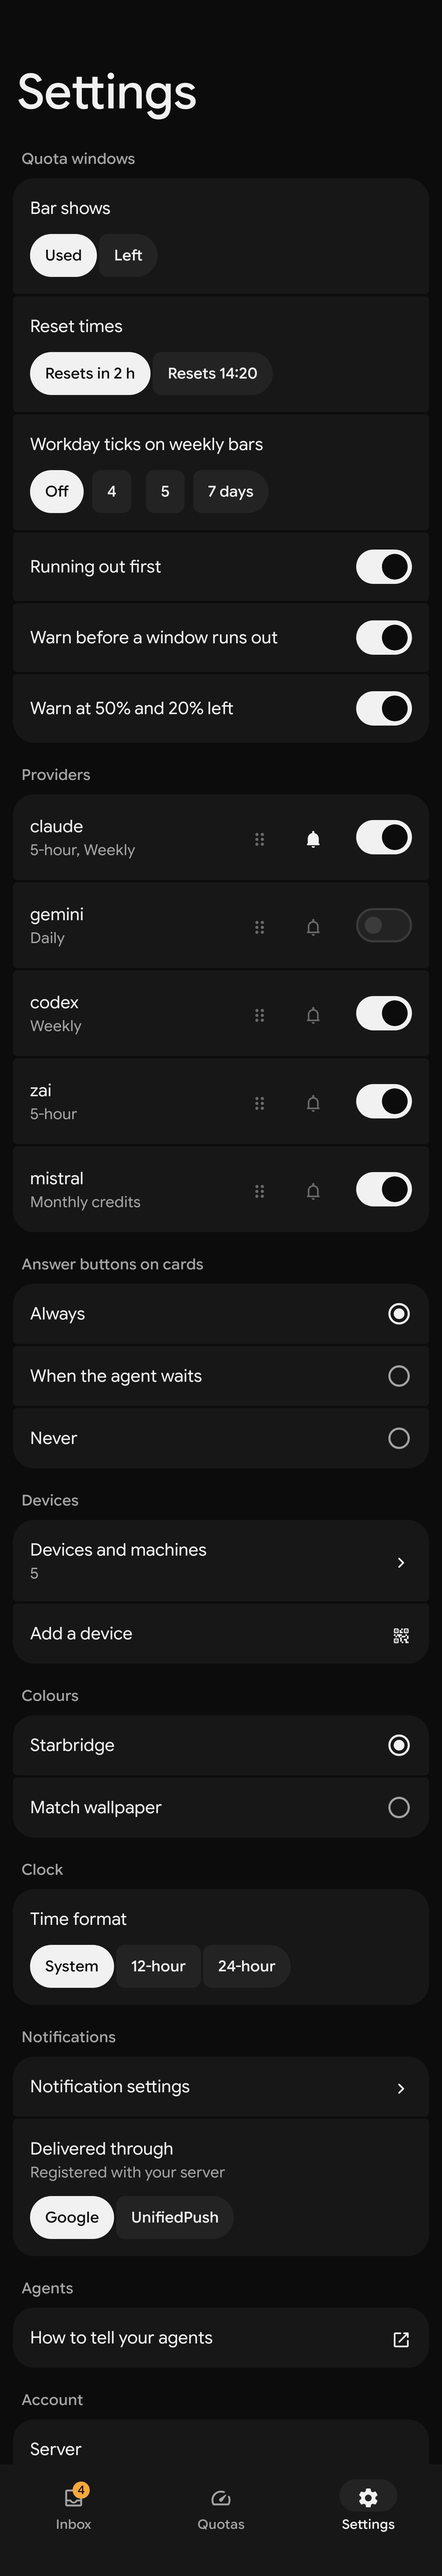
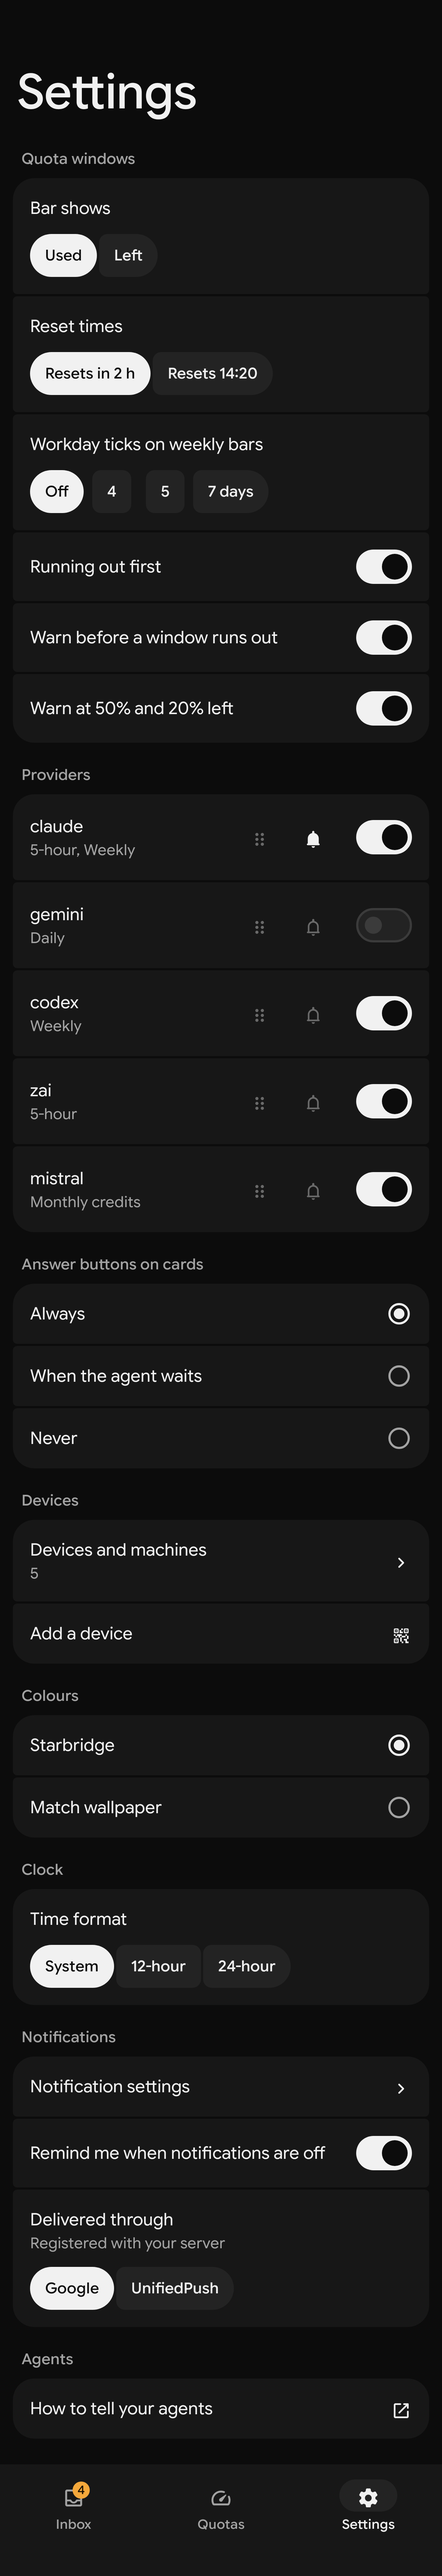
Android says when notifications are off (#342)
A quiet line heads the Inbox with Turn on and a dismiss button; Settings'
Notifications row says notifications are off, and a Remind me switch brings
the dismissed line back. The state is read again on each resume.

Closes #342

diff --git a/android/app/src/main/kotlin/dev/starbridge/app/data/Prefs.kt b/android/app/src/main/kotlin/dev/starbridge/app/data/Prefs.kt
@@ -13,9 +13,15 @@ enum class Colours { Starbridge, Wallpaper }
 
 /**
  * How the inbox shows, remembered on this phone: one feed, grouped by machine or by waiting,
- * History open or closed, and when question cards carry their answer buttons (#138).
+ * History open or closed, when question cards carry their answer buttons (#138), and whether it
+ * says so while notifications are off (#342).
  */
-data class InboxView(val grouping: Grouping = Grouping.None, val historyOpen: Boolean = false, val buttons: CardButtons = CardButtons.Always)
+data class InboxView(
+    val grouping: Grouping = Grouping.None,
+    val historyOpen: Boolean = false,
+    val buttons: CardButtons = CardButtons.Always,
+    val remindOff: Boolean = true,
+)
 
 /** The inbox's groups: none, one per machine, or what blocks an agent above what can wait (#191). */
 enum class Grouping { None, Machine, Waiting }
@@ -66,12 +72,13 @@ class Prefs @Inject constructor(@ApplicationContext context: Context) {
                 ?: if (prefs.getBoolean(BY_MACHINE, false)) Grouping.Machine else Grouping.None,
             prefs.getBoolean(HISTORY_OPEN, false),
             CardButtons.entries.find { it.name == prefs.getString(BUTTONS, null) } ?: CardButtons.Always,
+            prefs.getBoolean(REMIND_OFF, true),
         ),
     )
     val inbox: StateFlow<InboxView> = _inbox
 
     fun setInbox(value: InboxView) {
-        prefs.edit().putString(GROUPING, value.grouping.name).remove(BY_MACHINE).putBoolean(HISTORY_OPEN, value.historyOpen).putString(BUTTONS, value.buttons.name).apply()
+        prefs.edit().putString(GROUPING, value.grouping.name).remove(BY_MACHINE).putBoolean(HISTORY_OPEN, value.historyOpen).putString(BUTTONS, value.buttons.name).putBoolean(REMIND_OFF, value.remindOff).apply()
         _inbox.value = value
     }
 
@@ -93,6 +100,7 @@ class Prefs @Inject constructor(@ApplicationContext context: Context) {
         const val GROUPING = "inbox-grouping"
         const val HISTORY_OPEN = "inbox-history-open"
         const val BUTTONS = "inbox-card-buttons"
+        const val REMIND_OFF = "inbox-remind-notifications-off"
         val json = Json { ignoreUnknownKeys = true; encodeDefaults = false }
     }
 }

diff --git a/android/app/src/main/kotlin/dev/starbridge/app/ui/inbox/InboxScreen.kt b/android/app/src/main/kotlin/dev/starbridge/app/ui/inbox/InboxScreen.kt
@@ -94,6 +94,7 @@ import dev.starbridge.app.ui.Lockup
 import dev.starbridge.app.ui.Page
 import dev.starbridge.app.ui.Refresh
 import dev.starbridge.app.ui.Sym
+import dev.starbridge.app.ui.openNotificationSettings
 import dev.starbridge.app.ui.Symbol
 import dev.starbridge.app.ui.fieldColors
 import dev.starbridge.app.ui.groupGap
@@ -186,6 +187,7 @@ fun InboxScreen(
     view: InboxView = InboxView(),
     onView: (InboxView) -> Unit = {},
     onFind: () -> Unit = {},
+    notificationsOff: Boolean = false,
 ) {
     // While a prompt is on screen, read prompts every 1.5 s, so one settled elsewhere leaves
     // at once; the clock ticks with it for the 3 s a closed prompt stays.
@@ -224,6 +226,7 @@ fun InboxScreen(
         gap = groupGap,
         margin = Spacing.s4,
     ) {
+        if (notificationsOff && view.remindOff) item(key = "notifications-off") { NotificationsOff { onView(view.copy(remindOff = false)) } }
         if (feed.isEmpty()) {
             item(key = "empty") { Empty() }
         } else {
@@ -255,6 +258,22 @@ fun InboxScreen(
 }
 
 private const val PROMPT_POLL_MS = 1_500L
+
+/**
+ * Notifications are off (#342): a quiet line, since the owner may want them off. "Turn on" opens
+ * Android's settings; the ✕ hides the line for good, until Settings' "Remind me" brings it back.
+ */
+@Composable
+private fun NotificationsOff(dismiss: () -> Unit) {
+    val context = LocalContext.current
+    val dim = MaterialTheme.colorScheme.onSurfaceVariant
+    Row(Modifier.fillMaxWidth().padding(start = Spacing.s1), verticalAlignment = Alignment.CenterVertically, horizontalArrangement = Arrangement.spacedBy(Spacing.s2)) {
+        Symbol(Sym.BellOff, size = 18.dp, tint = dim)
+        Text("Notifications are off", style = StarbridgeTheme.type.small, color = dim, modifier = Modifier.weight(1f))
+        TextButton(onClick = { openNotificationSettings(context) }) { Text("Turn on") }
+        IconButton(onClick = dismiss) { Symbol(Sym.Close, size = 18.dp, tint = dim, contentDescription = "Don't remind me") }
+    }
+}
 
 /**
  * The inbox's cards (#248), Material 3's filled card with extra-large corners. In One feed each

diff --git a/android/app/src/main/kotlin/dev/starbridge/app/ui/settings/SettingsScreen.kt b/android/app/src/main/kotlin/dev/starbridge/app/ui/settings/SettingsScreen.kt
@@ -1,7 +1,5 @@
 package dev.starbridge.app.ui.settings
 
-import android.content.Intent
-import android.provider.Settings
 import androidx.compose.foundation.clickable
 import androidx.compose.foundation.gestures.detectDragGesturesAfterLongPress
 import androidx.compose.foundation.layout.Arrangement
@@ -68,6 +66,7 @@ import dev.starbridge.app.data.Store
 import dev.starbridge.app.ui.Page
 import dev.starbridge.app.ui.Section
 import dev.starbridge.app.ui.Sym
+import dev.starbridge.app.ui.openNotificationSettings
 import dev.starbridge.app.ui.Symbol
 import dev.starbridge.app.ui.devices.Confirm
 import dev.starbridge.app.ui.rowShape
@@ -118,6 +117,7 @@ fun SettingsScreen(
     modifier: Modifier = Modifier,
     inbox: InboxView = InboxView(),
     clock: Clock = Clock.System,
+    notificationsOff: Boolean = false,
 ) {
     val context = LocalContext.current
     var signingOut by rememberSaveable { mutableStateOf(false) }
@@ -187,14 +187,16 @@ fun SettingsScreen(
 
         item { Section("Notifications") }
         item {
-            LinkRow(0, 2, "Notification settings", null, Sym.Chevron) {
-                runCatching {
-                    context.startActivity(Intent(Settings.ACTION_APP_NOTIFICATION_SETTINGS).putExtra(Settings.EXTRA_APP_PACKAGE, context.packageName))
-                }
-            }
+            LinkRow(
+                0, 3,
+                if (notificationsOff) "Notifications are off" else "Notification settings",
+                if (notificationsOff) "Questions arrive silently. Turn them on in Android's settings." else null,
+                Sym.Chevron,
+            ) { openNotificationSettings(context) }
         }
+        item { SwitchRow(1, 3, "Remind me when notifications are off", inbox.remindOff) { actions.inbox(inbox.copy(remindOff = it)) } }
         item {
-            ChoiceRow(1, 2, "Delivered through", push(push)) {
+            ChoiceRow(2, 3, "Delivered through", push(push)) {
                 Segments(listOf("fcm" to "Google", "unifiedpush" to "UnifiedPush"), push.type, actions.push)
             }
         }

diff --git a/android/app/src/test/kotlin/dev/starbridge/app/ScreenshotTest.kt b/android/app/src/test/kotlin/dev/starbridge/app/ScreenshotTest.kt
@@ -10,6 +10,9 @@ import androidx.compose.ui.Modifier
 import androidx.compose.ui.platform.LocalDensity
 import androidx.compose.ui.test.junit4.v2.createComposeRule
 import androidx.compose.ui.test.onRoot
+import androidx.compose.ui.test.hasScrollToNodeAction
+import androidx.compose.ui.test.hasText
+import androidx.compose.ui.test.performScrollToNode
 import androidx.compose.ui.unit.Density
 import com.github.takahirom.roborazzi.captureRoboImage
 import dev.starbridge.app.data.Approval
@@ -207,6 +210,19 @@ class ScreenshotTest(private val dark: Boolean) {
             SettingsScreen(fake.windows, QuotaSettings(hidden = listOf("gemini"), notify = listOf("claude")), fake.members.size, Colours.Starbridge, fake.push, "https://starbridge.run", settingsActions)
         }
     }
+
+    // Notifications off (#342): a quiet line heads the inbox; Settings says so and can bring the line back once dismissed.
+    @Test fun inboxNotificationsOff() = capture("inbox-notifications-off") { Phone(Tab.Inbox, 4) { InboxScreen(fake.decisions, now, decisionActions, prompts = fake.prompts, promptActions = promptActions, runs = fake.runs, notificationsOff = true) } }
+
+    @Test fun settingsNotificationsOff() = capture("settings-notifications-off", { notifications() }) { Phone(Tab.Settings, 4) { NotificationsOffSettings(InboxView()) } }
+
+    @Test fun settingsNotificationsOffDismissed() = capture("settings-notifications-off-dismissed", { notifications() }) { Phone(Tab.Settings, 4) { NotificationsOffSettings(InboxView(remindOff = false)) } }
+
+    @Composable
+    private fun NotificationsOffSettings(inbox: InboxView) =
+        SettingsScreen(fake.windows, QuotaSettings(), fake.members.size, Colours.Starbridge, fake.push, "https://starbridge.run", settingsActions, inbox = inbox, notificationsOff = true)
+
+    private fun notifications() = compose.onNode(hasScrollToNodeAction()).performScrollToNode(hasText("Delivered through"))
 
     @Test fun quotasEmpty() = capture("quotas-empty") { QuotasScreen(emptyList(), now) }
 

diff --git a/android/app/src/test/kotlin/dev/starbridge/app/NotificationsOffTest.kt b/android/app/src/test/kotlin/dev/starbridge/app/NotificationsOffTest.kt
@@ -1,0 +1,40 @@
+package dev.starbridge.app
+
+import android.app.Application
+import androidx.compose.runtime.collectAsState
+import androidx.compose.runtime.getValue
+import androidx.compose.ui.test.junit4.v2.createComposeRule
+import androidx.compose.ui.test.onNodeWithContentDescription
+import androidx.compose.ui.test.onNodeWithText
+import androidx.compose.ui.test.performClick
+import androidx.test.core.app.ApplicationProvider
+import dev.starbridge.app.data.Prefs
+import dev.starbridge.app.ui.inbox.DecisionActions
+import dev.starbridge.app.ui.inbox.InboxScreen
+import dev.starbridge.app.ui.theme.StarbridgeTheme
+import org.junit.Assert.assertFalse
+import org.junit.Rule
+import org.junit.Test
+import org.junit.runner.RunWith
+import org.robolectric.RobolectricTestRunner
+import org.robolectric.annotation.Config
+import java.time.Instant
+
+// The inbox's "Notifications are off" line goes for good once dismissed (#342).
+@RunWith(RobolectricTestRunner::class)
+@Config(sdk = [36])
+class NotificationsOffTest {
+    @get:Rule val compose = createComposeRule()
+
+    @Test fun dismissingHidesTheLineAcrossLaunches() {
+        val prefs = Prefs(ApplicationProvider.getApplicationContext<Application>())
+        compose.setContent {
+            val view by prefs.inbox.collectAsState()
+            StarbridgeTheme { InboxScreen(emptyList(), Instant.now(), DecisionActions({ _, _, _ -> }, {}), view = view, onView = prefs::setInbox, notificationsOff = true) }
+        }
+        compose.onNodeWithText("Notifications are off").assertExists()
+        compose.onNodeWithContentDescription("Don't remind me").performClick()
+        compose.onNodeWithText("Notifications are off").assertDoesNotExist()
+        assertFalse(Prefs(ApplicationProvider.getApplicationContext<Application>()).inbox.value.remindOff)
+    }
+}

diff --git a/android/app/src/main/kotlin/dev/starbridge/app/ui/Root.kt b/android/app/src/main/kotlin/dev/starbridge/app/ui/Root.kt
@@ -164,6 +164,7 @@ fun Main(decisions: List<Decision>, notice: StateFlow<String?>, dismiss: () -> U
     val drafts = rememberDrafts()
     val host = Notices(notice, dismiss)
     val sheets = remember { BottomSheetSceneStrategy<NavKey>() }
+    val notificationsOff = !rememberNotificationsOn()
     val colors = StarbridgeTheme.colors
     // A notification's tap: its question's or prompt's sheet, over the inbox.
     LaunchedEffect(opening) {
@@ -252,6 +253,7 @@ fun Main(decisions: List<Decision>, notice: StateFlow<String?>, dismiss: () -> U
                             view = view,
                             onView = vm::setView,
                             onFind = { backStack.add(FindKey) },
+                            notificationsOff = notificationsOff,
                         )
                     }
                     entry<FindKey> {
@@ -308,6 +310,7 @@ fun Main(decisions: List<Decision>, notice: StateFlow<String?>, dismiss: () -> U
                             SettingsActions(vm::setQuota, vm::setColours, vm::setPush, vm::signOut, devices = { backStack.add(DevicesKey) }, addDevice = { backStack.add(AddDeviceKey) }, inbox = vm::setInbox, clock = vm::setClock),
                             inbox = inbox,
                             clock = clock,
+                            notificationsOff = notificationsOff,
                         )
                     }
                     entry<DevicesKey> {

diff --git a/android/app/src/main/kotlin/dev/starbridge/app/ui/NotificationsOff.kt b/android/app/src/main/kotlin/dev/starbridge/app/ui/NotificationsOff.kt
@@ -1,0 +1,35 @@
+package dev.starbridge.app.ui
+
+import android.content.Context
+import android.content.Intent
+import android.provider.Settings
+import androidx.compose.runtime.Composable
+import androidx.compose.runtime.getValue
+import androidx.compose.runtime.mutableStateOf
+import androidx.compose.runtime.remember
+import androidx.compose.runtime.setValue
+import androidx.compose.ui.platform.LocalContext
+import androidx.lifecycle.compose.LifecycleResumeEffect
+import dev.starbridge.app.push.notificationsAllowed
+
+/** Whether this phone shows Starbridge's notifications, read again each time the app comes back (#342). */
+@Composable
+fun rememberNotificationsOn(): Boolean {
+    val context = LocalContext.current
+    var on by remember { mutableStateOf(notificationsAllowed(context)) }
+    LifecycleResumeEffect(context) {
+        on = notificationsAllowed(context)
+        onPauseOrDispose {}
+    }
+    return on
+}
+
+/**
+ * Android's notification settings for this app. Turning them on there also grants Android 13's
+ * permission, which the first-run prompt can no longer ask for once refused twice.
+ */
+fun openNotificationSettings(context: Context) {
+    runCatching {
+        context.startActivity(Intent(Settings.ACTION_APP_NOTIFICATION_SETTINGS).putExtra(Settings.EXTRA_APP_PACKAGE, context.packageName))
+    }
+}

diff --git a/android/app/src/main/kotlin/dev/starbridge/app/push/Notifier.kt b/android/app/src/main/kotlin/dev/starbridge/app/push/Notifier.kt
@@ -122,12 +122,7 @@ class Notifier(private val context: Context, private val prefs: Prefs) : Alerts 
         }
     }
 
-    // POST_NOTIFICATIONS exists from Android 13; before that the app's notification setting rules.
-    private fun allowed() = if (Build.VERSION.SDK_INT >= Build.VERSION_CODES.TIRAMISU) {
-        context.checkSelfPermission(Manifest.permission.POST_NOTIFICATIONS) == PackageManager.PERMISSION_GRANTED
-    } else {
-        manager.areNotificationsEnabled()
-    }
+    private fun allowed() = notificationsAllowed(context)
 
     private fun tag(id: String) = id.hashCode()
 
@@ -529,4 +524,11 @@ class Notifier(private val context: Context, private val prefs: Prefs) : Alerts 
         /** Wide enough for an expanded notification on any phone, small enough for its bitmap limit. */
         private const val PICTURE_EDGE = 1024
     }
+}
+
+// POST_NOTIFICATIONS exists from Android 13; before that the app's notification setting rules.
+fun notificationsAllowed(context: Context) = if (Build.VERSION.SDK_INT >= Build.VERSION_CODES.TIRAMISU) {
+    context.checkSelfPermission(Manifest.permission.POST_NOTIFICATIONS) == PackageManager.PERMISSION_GRANTED
+} else {
+    NotificationManagerCompat.from(context).areNotificationsEnabled()
 }

diff --git a/android/app/src/main/kotlin/dev/starbridge/app/ui/Symbols.kt b/android/app/src/main/kotlin/dev/starbridge/app/ui/Symbols.kt
@@ -34,7 +34,7 @@ enum class Sym(val code: Char) {
     Lock(''), Filter(''), History(''), Key(''), Devices(''),
     Open(''), Waiting(''), Send(''), Link(''),
     Up(''), Down(''), CheckCircle(''), Computer(''), Close(''),
-    Error(''), Copy(''), Visibility(''), Logout(''), Add(''), Pin(''), Search(''),
+    Error(''), Copy(''), Visibility(''), Logout(''), Add(''), Pin(''), Search(''), BellOff(''),
 }
 
 /**

diff --git a/SPEC.md b/SPEC.md
@@ -1822,3 +1822,14 @@ goes in git.
   the meta row cut its text. No text measured under 3:1 in either theme. The 200% text is
   emulated by scaling each element's computed font size and line height, since the page sets
   type in px; a browser that zooms the whole page instead is not covered.
+- 2026-10-06: Android says when notifications are off (#342, the owner's
+  pick of A plus C). A quiet line heads the Inbox, "Notifications are
+  off", with "Turn on" and a ✕. The ✕ hides the line for good, so the
+  line never nags someone who wants notifications off; Settings,
+  Notifications holds "Remind me when notifications are off", on by
+  default, which brings it back. Settings' first Notifications row reads
+  "Notifications are off" whatever the reminder says. "Turn on" opens
+  Android's notification settings for the app rather than the
+  permission prompt, which Android stops showing after two refusals;
+  turning notifications on there grants the permission too. The state
+  is read again each time the app comes back to the front.
